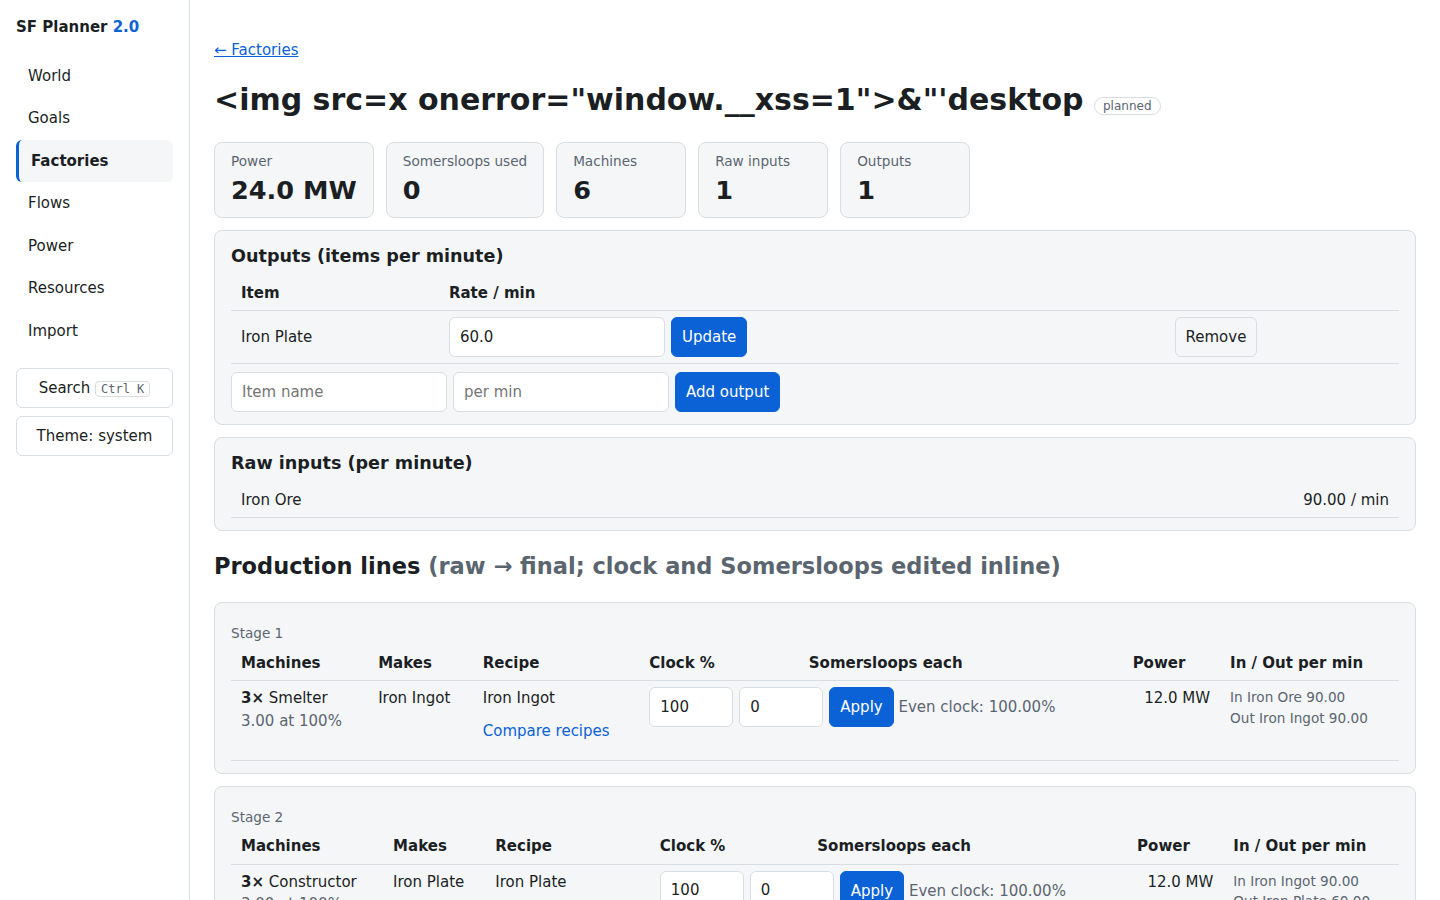
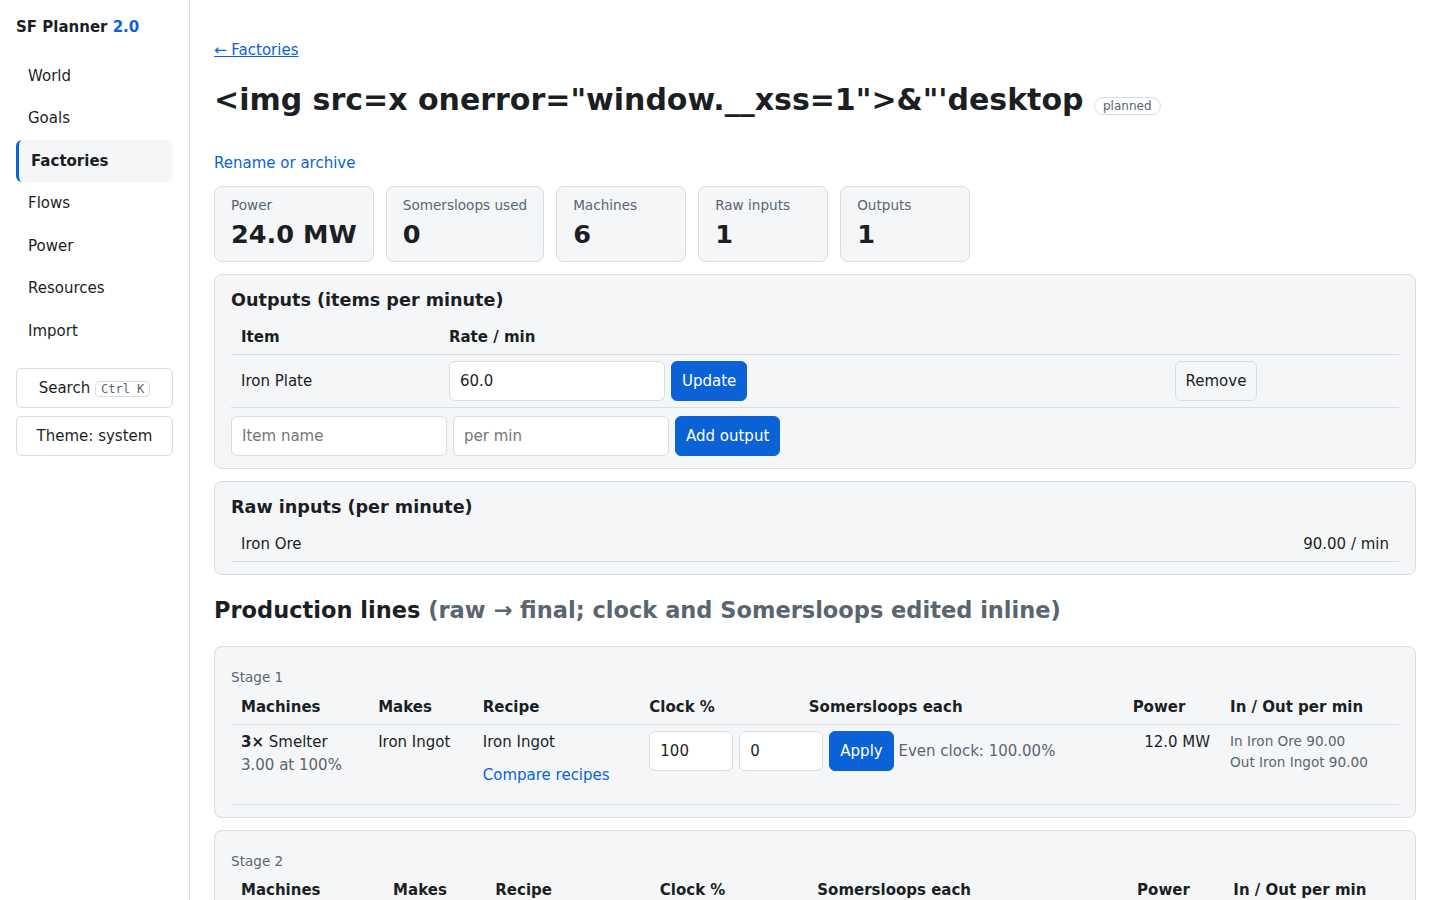
UI clarity: 40 px link targets, goals Split form no longer clipped at 1024 px, thousands separators, units on power plant rates
* links in the main pane (factory names on World/Factories/Goals, back link) were 18-20 px tall at 1024 px;
* the Assign form's checkbox and select were cut off at the card edge on tablet - now stacked;
* big MW figures (836707 / 2079710 MW) get thousands separators;
* Power page: fuel / water / waste cells carry their unit (items or m3).
Adds the factory-vs-oracle DB checker used for the 1.x factories.

diff --git a/v2/templates/power.html b/v2/templates/power.html
@@ -2,9 +2,9 @@
 {% block main %}
 <h1>Power</h1>
 <section class="strip">
-  <div><span class="label">Generated</span><span class="big">{{ "%.0f"|format(ov.gen_mw) }} MW</span></div>
-  <div><span class="label">Used by factories</span><span class="big">{{ "%.0f"|format(ov.used_mw) }} MW</span></div>
-  <div><span class="label">Balance</span><span class="big {{ 'bad' if ov.used_mw > ov.gen_mw }}">{{ "%+.0f"|format(ov.gen_mw - ov.used_mw) }} MW</span>
+  <div><span class="label">Generated</span><span class="big">{{ ov.gen_mw|n0 }} MW</span></div>
+  <div><span class="label">Used by factories</span><span class="big">{{ ov.used_mw|n0 }} MW</span></div>
+  <div><span class="label">Balance</span><span class="big {{ 'bad' if ov.used_mw > ov.gen_mw }}">{{ "+" if ov.gen_mw >= ov.used_mw else "−" }}{{ (ov.gen_mw - ov.used_mw)|abs|n0 }} MW</span>
     <span class="note">{{ "SHORT" if ov.used_mw > ov.gen_mw else "OK" }}</span></div>
 </section>
 <section class="card">
@@ -14,9 +14,9 @@
       <td><form id="pf{{ x.p.id }}" method="post" action="/power/update"><input type="hidden" name="plant_id" value="{{ x.p.id }}"></form>
         <input form="pf{{ x.p.id }}" class="short" type="number" min="1" name="count" value="{{ x.p.count }}" aria-label="Count"></td>
       <td><input form="pf{{ x.p.id }}" class="short" type="number" min="1" max="250" step="any" name="clock_pct" value="{{ '%g'|format(x.p.clock_pct) }}" aria-label="Clock percent"></td>
-      <td class="num">{{ "%.0f"|format(x.st.mw) }}</td><td class="num">{{ "%.2f"|format(x.st.fuel_per_min) }}</td>
-      <td class="num">{{ "%.1f"|format(x.st.supplemental_per_min) if x.water else "—" }}</td>
-      <td class="num">{{ "%.1f"|format(x.st.waste_per_min) ~ " " ~ x.waste if x.waste else "—" }}</td>
+      <td class="num">{{ x.st.mw|n0 }} MW</td><td class="num">{{ "%.2f"|format(x.st.fuel_per_min) }} {{ x.unit }}</td>
+      <td class="num">{{ ("%.1f m³ "|format(x.st.supplemental_per_min) ~ x.water) if x.water else "—" }}</td>
+      <td class="num">{{ ("%.1f items "|format(x.st.waste_per_min) ~ x.waste) if x.waste else "—" }}</td>
       <td><button form="pf{{ x.p.id }}">Save</button>
         <form method="post" action="/power/delete" class="inline"><input type="hidden" name="plant_id" value="{{ x.p.id }}"><button class="quiet">Remove</button></form></td></tr>
     {% else %}<tr><td colspan="10">No power plants.</td></tr>{% endfor %}

diff --git a/v2/templates/home.html b/v2/templates/home.html
@@ -5,8 +5,8 @@
 
 <section class="strip">
   <div><span class="label">Power used / generated</span>
-    <span class="big {{ 'bad' if ov.used_mw > ov.gen_mw }}">{{ "%.0f"|format(ov.used_mw) }} / {{ "%.0f"|format(ov.gen_mw) }} MW</span>
-    <span class="note">{{ "Short by %.0f MW"|format(ov.used_mw - ov.gen_mw) if ov.used_mw > ov.gen_mw else "Surplus %.0f MW"|format(ov.gen_mw - ov.used_mw) }}{% if ov.power_goal %} · goal {{ "%.0f"|format(ov.power_goal) }} MW{% endif %}</span></div>
+    <span class="big {{ 'bad' if ov.used_mw > ov.gen_mw }}">{{ ov.used_mw|n0 }} / {{ ov.gen_mw|n0 }} MW</span>
+    <span class="note">{{ ("Short by " ~ (ov.used_mw - ov.gen_mw)|n0 ~ " MW") if ov.used_mw > ov.gen_mw else ("Surplus " ~ (ov.gen_mw - ov.used_mw)|n0 ~ " MW") }}{% if ov.power_goal %} · goal {{ "%.0f"|format(ov.power_goal) }} MW{% endif %}</span></div>
   <div><span class="label">Factories</span><span class="big">{{ ov.factories|selectattr("status", "in", ["planned","built"])|list|length }}</span></div>
   <div><span class="label">Flows</span><span class="big">{{ flows|length }}</span></div>
   <div><span class="label">Warnings</span><span class="big {{ 'bad' if ov.warnings }}">{{ ov.warnings|length }}</span></div>
@@ -51,7 +51,7 @@
 <h2>Factories</h2>
 {% for f in ov.factories %}
 <section class="card"><h3><a href="/factory/{{ f.id }}">{{ f.name }}</a> <span class="tag">{{ f.status }}</span></h3>
-  <p><strong>{{ "%.1f"|format(f.power_mw) }} MW</strong> · {{ f.machines }} machines · {{ f.sloops }} Somersloops
+  <p><strong>{{ f.power_mw|n1 }} MW</strong> · {{ f.machines }} machines · {{ f.sloops }} Somersloops
   {% for item, r in f.outputs.items() %}<br>{{ name(item) }} {{ rate(r) }}{% endfor %}</p></section>
 {% else %}<p>No factories yet. Start in <a href="/goals">Goals</a> or <a href="/factories">Factories</a>.</p>{% endfor %}
 

diff --git a/v2/static/app.css b/v2/static/app.css
@@ -80,3 +80,10 @@ nav.side .tools button { background:transparent; color:var(--fg); border-color:v
 .kbd { font:12px monospace; border:1px solid var(--line); border-radius:4px; padding:0 5px; color:var(--muted); }
 summary { box-sizing:border-box; min-height:44px; display:flex; align-items:center; }
 details > summary { min-height:44px; display:flex; align-items:center; }
+
+/* QA: links inside the main pane are touch targets too (>= 40 px), and the goals Split form stacks so it is not clipped at 1024 px */
+main a:not(.btn) { display:inline-block; min-height:40px; line-height:40px; }
+main .note a, main li a { line-height:inherit; }
+main td a, main h2 a, main h3 a { padding:0; }
+form.stack { display:flex; flex-direction:column; align-items:stretch; gap:6px; min-width:170px; }
+form.stack select, form.stack input:not([type=checkbox]) { width:100%; }

diff --git a/v2/templates/goals.html b/v2/templates/goals.html
@@ -46,7 +46,7 @@
         </table></details></td>
       <td class="num">{{ l.count }}× {{ l.machine_name }}</td>
       <td>{% for fid, fname in l.assigned %}<a href="/factory/{{ fid }}">{{ fname }}</a>{% if not loop.last %}, {% endif %}{% else %}<span class="pill">Unassigned</span>{% endfor %}</td>
-      <td><form method="post" action="/goals/assign" class="inline">
+      <td><form method="post" action="/goals/assign" class="stack">
         <input type="hidden" name="item" value="{{ l.item }}">
         <select name="factory_id" aria-label="Factory"><option value="">New factory…</option>{% for f in facs %}<option value="{{ f.id }}">{{ f.name }}</option>{% endfor %}</select>
         <input name="new_name" placeholder="New factory name" aria-label="New factory name">

diff --git a/v2/templates/factories.html b/v2/templates/factories.html
@@ -8,7 +8,7 @@
 {% for r in rows %}
 <section class="card">
   <h2><a href="/factory/{{ r.f.id }}">{{ r.f.name }}</a> <span class="tag">{{ r.f.status }}</span> <span class="tag">{{ r.f.origin }}</span></h2>
-  <p class="big">{{ "%.1f"|format(r.power) }} MW <span class="note">· {{ r.machines }} machines · {{ r.sloops }} Somersloops</span></p>
+  <p class="big">{{ r.power|n1 }} MW <span class="note">· {{ r.machines }} machines · {{ r.sloops }} Somersloops</span></p>
   <p class="label">Outputs (items/min)</p>
   {% if r.outputs %}
   <ul>{% for o in r.outputs %}<li>{{ o.item }} — {{ "%.2f"|format(o.rate) }}/min</li>{% endfor %}</ul>

diff --git a/v2/templates/factory.html b/v2/templates/factory.html
@@ -14,7 +14,7 @@
 </details>
 
 <section class="strip">
-  <div><span class="label">Power</span><span class="big">{{ "%.1f"|format(res.power_mw) }} MW</span></div>
+  <div><span class="label">Power</span><span class="big">{{ res.power_mw|n1 }} MW</span></div>
   <div><span class="label">Somersloops used</span><span class="big">{{ res.sloops_total }}</span></div>
   <div><span class="label">Machines</span><span class="big">{{ res.lines|sum(attribute='count') }}</span></div>
   <div><span class="label">Raw inputs</span><span class="big">{{ res.raws|length }}</span></div>

diff --git a/v2/tests/qa/ui_qa.py b/v2/tests/qa/ui_qa.py
@@ -52,7 +52,7 @@ def run(vp_name, vp):
         body = pg.inner_text("body")
         exp = o.plan({"Iron Plate": 60})
         check(f"[{tag}] iron plate raw ore", abs((num(body, "Iron Ore") or -1) - exp["raws"]["Iron Ore"]) < 0.011, body[:300])
-        check(f"[{tag}] iron plate power {exp['power_mw']:.2f}", f"{exp['power_mw']:.1f} MW" in body)
+        check(f"[{tag}] iron plate power {exp['power_mw']:.2f}", f"{exp['power_mw']:,.1f} MW" in body)
         pg.screenshot(path=SHOTS / f"factory-{tag}.png")
         # duplicate output (same item) updates, not duplicates
         pg.fill("input[list=items]", "Iron Plate")
@@ -82,7 +82,7 @@ def run(vp_name, vp):
         body = pg.inner_text("body")
         check(f"[{tag}] after recipe change Iron Ore matches oracle {exp['raws']['Iron Ore']:.2f}",
               abs((num(body, "Iron Ore") or -1) - exp["raws"]["Iron Ore"]) < 0.011, body[:400])
-        check(f"[{tag}] power matches oracle {exp['power_mw']:.1f}", f"{exp['power_mw']:.1f} MW" in body)
+        check(f"[{tag}] power matches oracle {exp['power_mw']:.1f}", f"{exp['power_mw']:,.1f} MW" in body)
         # ---- clock / sloops via the inline form, valid and invalid ----
         pg.fill("input[list=items]", "Computer")
         pg.fill("form.add input[name=rate]", "9.375")
@@ -95,7 +95,7 @@ def run(vp_name, vp):
         exp = o.plan({"Computer": 9.375}, overrides={"Computer": (250, 2)})
         l = [x for x in exp["lines"] if x["recipe"] == "Computer"][0]
         body = pg.inner_text("body")
-        check(f"[{tag}] Computer 250%/2 sloops -> 1 machine {l['power']:.2f} MW", "1× Manufacturer" in body and f"{l['power']:.1f} MW" in body, body[:300])
+        check(f"[{tag}] Computer 250%/2 sloops -> 1 machine {l['power']:.2f} MW", "1× Manufacturer" in body and f"{l['power']:,.1f} MW" in body, body[:300])
         # invalid values by disabling browser validation
         for clk, slp, label in (("0", "0", "clock 0"), ("300", "0", "clock 300"), ("100", "9", "sloops 9"), ("100", "-1", "sloops -1"), ("1e999", "0", "clock huge"), ("abc", "0", "clock text")):
             row = pg.locator("table.lines tr", has_text="Computer").filter(has=pg.get_by_label("Clock percent")).first
@@ -153,7 +153,7 @@ def world_flow(vp_name, vp):
         for k, v in exp["raws"].items():
             check(f"[{tag}] goals raw {k} {v:.0f}", abs(raw_rows.get(k, -1) - round(v)) <= 1, f"{raw_rows}")
         txt = pg.inner_text("body")
-        check(f"[{tag}] world power {exp['power_mw']:.1f}", f"{exp['power_mw']:.1f} MW" in txt)
+        check(f"[{tag}] world power {exp['power_mw']:.1f}", f"{exp['power_mw']:,.1f} MW" in txt)
         pg.screenshot(path=SHOTS / f"goals-{tag}.png", full_page=True)
         # split: assign Smart Plating (with everything below) to a new factory, then Versatile Framework
         def assign(item, name, sub=True):

diff --git a/v2/tests/qa/check_db_factories.py b/v2/tests/qa/check_db_factories.py
@@ -1,0 +1,38 @@
+"""QA: every non-import factory in a DB solves to the oracle's numbers (choices/overrides read from the DB tables).
+python tests/qa/check_db_factories.py <planner2.db> <base url serving that DB>"""
+import json
+import sqlite3
+import sys
+import urllib.request
+from pathlib import Path
+
+sys.path.insert(0, str(Path(__file__).resolve().parents[2]))
+from tests.qa import oracle as o  # noqa: E402
+from tests.qa.test_oracle_numbers import compare  # noqa: E402
+
+c = sqlite3.connect(sys.argv[1]); c.row_factory = sqlite3.Row
+D = o.data()
+nm = lambda i: D["items"][i]["name"]
+bad = 0
+for f in c.execute("SELECT * FROM factory WHERE id <= 5 ORDER BY id"):
+    outs = {nm(r["item"]): r["rate_per_min"] for r in c.execute("SELECT * FROM factory_output WHERE factory_id=? AND rate_per_min BETWEEN 0.0001 AND 1000000", (f["id"],))}
+    choices = {nm(r["item"]): D["recipes"][r["recipe"]]["name"] for r in c.execute("SELECT * FROM world_recipe WHERE world_id=?", (f["world_id"],)) if r["recipe"] in D["recipes"]}
+    ov = {}
+    for r in c.execute("SELECT * FROM factory_recipe WHERE factory_id=?", (f["id"],)):
+        if r["recipe"] in D["recipes"]:
+            choices[nm(r["item"])] = D["recipes"][r["recipe"]]["name"]
+        if r["clock_pct"] is not None or r["sloops"]:
+            ov[nm(r["item"])] = (r["clock_pct"], r["sloops"])
+    ext = {nm(r["item"]) for r in c.execute("SELECT item FROM factory_input WHERE factory_id=?", (f["id"],))}
+    if not outs:
+        print(f["id"], f["name"], "(no outputs)"); continue
+    try:
+        exp = o.plan(outs, choices, ov, ext)
+    except Exception as e:
+        print(f["id"], f["name"], "ORACLE ERROR", e); continue
+    app = json.load(urllib.request.urlopen(f"{sys.argv[2]}/api/factory/{f['id']}/export.json"))
+    try:
+        compare(app, exp); print("OK  ", f["id"], f["name"], f"{exp['power_mw']:.2f} MW", len(exp["lines"]), "lines")
+    except AssertionError as e:
+        bad += 1; print("DIFF", f["id"], f["name"], str(e)[:300].replace("\n", " "))
+print("RESULT", "OK" if not bad else f"{bad} differ")

diff --git a/v2/tests/qa/test_oracle_numbers.py b/v2/tests/qa/test_oracle_numbers.py
@@ -77,3 +77,29 @@ def test_case(server, case):
     set_goal(server, fid, spec["targets"], spec.get("choices"), spec.get("overrides"))
     exp = o.plan(spec["targets"], spec.get("choices"), spec.get("overrides"))
     compare(server.export(fid), exp)
+
+
+@pytest.mark.parametrize("case", ["hmf_10", "mfr_250_2", "plastic_hor_reuse", "fluid_sulfuric"])
+def test_excel_export_matches_oracle(server, case):
+    import io
+    import openpyxl
+    spec = CASES[case]
+    fid = server.new_factory("x-" + case)
+    set_goal(server, fid, spec["targets"], spec.get("choices"), spec.get("overrides"))
+    exp = o.plan(spec["targets"], spec.get("choices"), spec.get("overrides"))
+    st, body, hdr = server.get(f"/api/factory/{fid}/export.xlsx", raw=True)
+    assert st == 200 and "spreadsheetml" in hdr["Content-Type"]
+    wb = openpyxl.load_workbook(io.BytesIO(body))
+    s = {r[0]: r[1] for r in wb["Summary"].iter_rows(min_row=2, values_only=True) if r[0]}
+    assert s["Total power (MW)"] == pytest.approx(exp["power_mw"], abs=0.011)
+    assert s["Somersloops used"] == exp["sloops"]
+    lines = list(wb["Lines"].iter_rows(min_row=2, values_only=True))
+    got = {l[2]: l for l in lines}
+    assert set(got) == {l["recipe"] for l in exp["lines"]}
+    for l in exp["lines"]:
+        g = got[l["recipe"]]
+        assert g[4] == l["count"] and g[5] == pytest.approx(l["clock"], abs=0.0011) and g[6] == l["sloops"]
+        assert g[7] == pytest.approx(l["power"], abs=0.0011)
+    for k, v in exp["raws"].items():
+        raw = {r[0]: r[1] for r in wb["Summary"].iter_rows(values_only=True) if r[0]}
+        assert raw[k] == pytest.approx(v, abs=0.0011), k

diff --git a/v2/app/world_routes.py b/v2/app/world_routes.py
@@ -16,6 +16,8 @@ from core import recipes as rc
 
 router = APIRouter()
 templates = Jinja2Templates(directory=str(Path(__file__).resolve().parent.parent / "templates"))
+from app import fmt  # noqa: E402
+fmt.install(templates)
 TRANSPORTS = ("belt", "train", "drone", "truck")
 
 
@@ -308,6 +310,7 @@ def power_page(request: Request):
         for p in ov["plants"]:
             st = ledger.generator_stats(p)
             rows.append({"p": p, "generator": gens[p["generator"]]["name"], "fuel": fs.name(p["fuel"]), "st": st,
+                         "unit": "items" if gd.items()[p["fuel"]]["form"] == "RF_SOLID" else "m³",
                          "water": fs.name(st["supplemental"]) if st["supplemental"] else None,
                          "waste": fs.name(st["waste"]) if st["waste"] else None})
         options = [{"generator": k, "name": g["name"], "fuels": [{"item": f["fuel"], "name": fs.name(f["fuel"])}

diff --git a/v2/tests/qa/test_power_plants.py b/v2/tests/qa/test_power_plants.py
@@ -33,10 +33,10 @@ def test_generator_row(server, gen, fuel, count, clock, waste):
     page = server.get("/power")[1]
     row = [c for c, v in rows(page) if c[0] == name][0]
     exp = o.generator(gen, fuel, count, clock, waste)
-    mw, fuel_pm = float(row[5].replace(",", "")), float(row[6].replace(",", ""))
+    mw, fuel_pm = float(row[5].replace(",", "").split()[0]), float(row[6].replace(",", "").split()[0])
     assert mw == pytest.approx(exp["mw"], abs=0.5)           # page shows whole MW
     assert fuel_pm == pytest.approx(exp["fuel_per_min"], abs=0.011)
     if exp["water_m3_per_min"]:
-        assert float(row[7]) == pytest.approx(exp["water_m3_per_min"], abs=0.06)
+        assert float(row[7].split()[0]) == pytest.approx(exp["water_m3_per_min"], abs=0.06)
     if waste:
         assert float(row[8].split()[0]) == pytest.approx(exp["waste_per_min"], abs=0.06)

diff --git a/v2/app/fmt.py b/v2/app/fmt.py
@@ -1,0 +1,15 @@
+"""Template helpers shared by every router's Jinja environment."""
+
+
+def thousands(v, digits: int = 0) -> str:
+    """12345.6 -> '12,346' (readable big power figures)."""
+    try:
+        return f"{float(v):,.{digits}f}"
+    except (TypeError, ValueError):
+        return str(v)
+
+
+def install(templates):
+    templates.env.filters["n0"] = thousands
+    templates.env.filters["n1"] = lambda v: thousands(v, 1)
+    return templates
